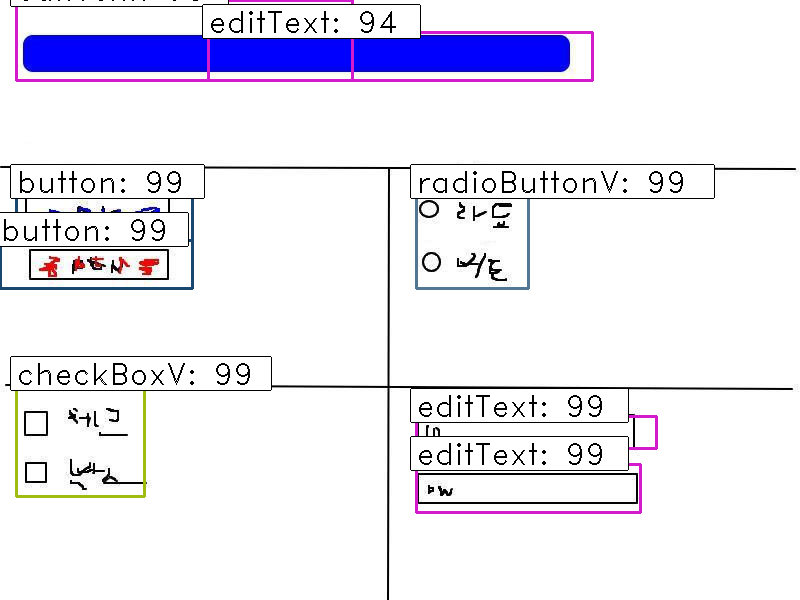
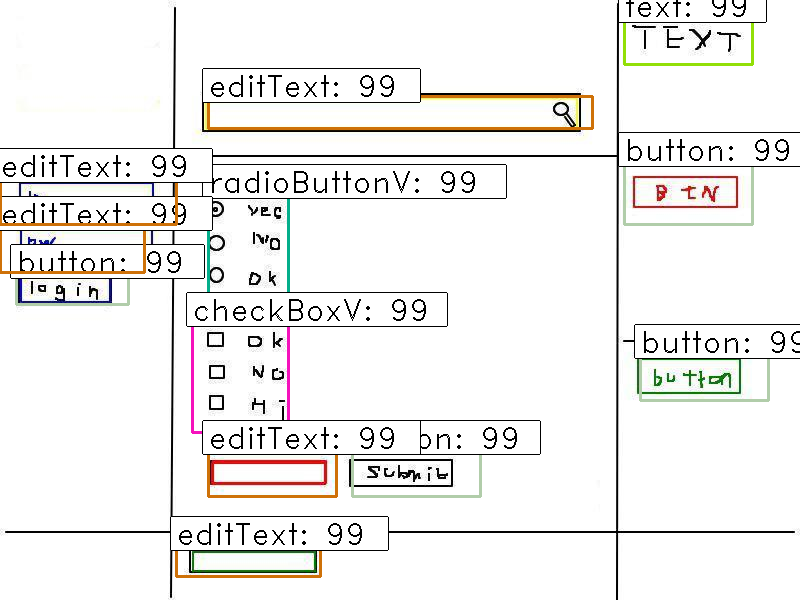
modify bug

Changed region(s): [[0.0, 0.0, 1.0, 0.99], [0.9688, 0.54, 1.0, 0.6], [0.0938, 0.69, 0.125, 0.72]]

diff --git a/html/sketch2html_result_1538046947143.css b/html/sketch2html_result_1538046947143.css
@@ -1,0 +1,203 @@
+#div0{
+	width : 100.0%;
+	height : 25.916666666666664%;
+	margin : -1px;
+	border : 1px solid black;
+}
+#div1{
+	width : 21.5625%;
+	height : 100.0%;
+	margin : -1px;
+	border : 1px solid black;
+	float : left;
+}
+#div2{
+	width : 55.5625%;
+	height : 100.0%;
+	margin : -1px;
+	border : 1px solid black;
+	float : left;
+}
+#div3{
+	width : 22.875%;
+	height : 100.0%;
+	margin : -1px;
+	border : 1px solid black;
+	float : left;
+}
+#div4{
+	width : 100.0%;
+	height : 62.66666666666667%;
+	margin : -1px;
+	border : 1px solid black;
+}
+#div5{
+	width : 21.5625%;
+	height : 100.0%;
+	margin : -1px;
+	border : 1px solid black;
+	float : left;
+}
+#div6{
+	width : 55.5625%;
+	height : 100.0%;
+	margin : -1px;
+	border : 1px solid black;
+	float : left;
+}
+#div8{
+	width : 100.0%;
+	height : 49.33510638297872%;
+	margin : -1px;
+	border : 1px solid black;
+}
+#div9{
+	width : 100.0%;
+	height : 50.66489361702128%;
+	margin : -1px;
+	border : 1px solid black;
+}
+#div7{
+	width : 22.875%;
+	height : 100.0%;
+	margin : -1px;
+	border : 1px solid black;
+	float : left;
+}
+#div10{
+	width : 100.0%;
+	height : 11.416666666666666%;
+	margin : -1px;
+	border : 1px solid black;
+}
+#div11{
+	width : 21.5625%;
+	height : 100.0%;
+	margin : -1px;
+	border : 1px solid black;
+	float : left;
+}
+#div12{
+	width : 55.5625%;
+	height : 100.0%;
+	margin : -1px;
+	border : 1px solid black;
+	float : left;
+}
+#div13{
+	width : 22.875%;
+	height : 100.0%;
+	margin : -1px;
+	border : 1px solid black;
+	float : left;
+}
+#button0{
+	margin : 10px;
+	width : 100px;
+	height : 25px;
+	background-color : btn btn-success;
+}
+#button1{
+	margin : 10px;
+	width : 100px;
+	height : 25px;
+	background-color : btn btn-danger;
+}
+#button2{
+	margin : 10px;
+	width : 100px;
+	height : 25px;
+	background-color : none;
+}
+#editText0{
+	margin : 10px;
+	width : 100px;
+	height : 25px;
+	border : 3px solid #ff6666;
+	border-radius : 5px;
+}
+#editText0:focus{
+	border : 3px solid red;
+}
+#editText0:hover{
+	border : 3px solid red;
+}
+#checkBox0{
+	margin : 10px;
+}
+#checkBox1{
+	margin : 10px;
+}
+#checkBox2{
+	margin : 10px;
+}
+#radioButton0{
+	margin : 10px;
+}
+#radioButton1{
+	margin : 10px;
+}
+#radioButton2{
+	margin : 10px;
+}
+#button3{
+	margin : 10px;
+	width : 100px;
+	height : 25px;
+	background-color : btn btn-primary;
+}
+#editText1{
+	margin : 10px;
+	width : 100px;
+	height : 25px;
+	border : 3px solid #0099ff;
+	border-radius : 5px;
+}
+#editText1:focus{
+	border : 3px solid blue;
+}
+#editText1:hover{
+	border : 3px solid blue;
+}
+#editText2{
+	margin : 10px;
+	width : 100px;
+	height : 25px;
+	border : 3px solid #0099ff;
+	border-radius : 5px;
+}
+#editText2:focus{
+	border : 3px solid blue;
+}
+#editText2:hover{
+	border : 3px solid blue;
+}
+#text0{
+	margin : 10px;
+}
+#editText3{
+	margin : 10px;
+	width : 400px;
+	height : 25px;
+	border : 3px solid #ffeb99;
+	border-radius : 5px;
+}
+#editText3:focus{
+	border : 3px solid orange;
+}
+#editText3:hover{
+	border : 3px solid orange;
+}
+#editText4{
+	margin : 10px;
+	width : 100px;
+	height : 25px;
+	border : 3px solid #33cc33;
+	border-radius : 5px;
+}
+#editText4:focus{
+	border : 3px solid #009933;
+}
+#editText4:hover{
+	border : 3px solid #009933;
+}

diff --git a/html/sketch2html_result_1538046947143.html b/html/sketch2html_result_1538046947143.html
@@ -1,0 +1,63 @@
+<html>
+<head><META HTTP-EQUIV=Expires CONTENT=Mon, 06 Jan 1990 00:00:01 GMT><META HTTP-EQUIV=Expires CONTENT=-1><META HTTP-EQUIV=Pragma CONTENT=no-cache><META HTTP-EQUIV=Cache-Control CONTENT=no-cache>
+<link rel=stylesheet type=text/css href="sketch2html_result_1538046947143.css" />
+<link rel="stylesheet" href="https://maxcdn.bootstrapcdn.com/bootstrap/3.3.7/css/bootstrap.min.css">
+<script src="https://ajax.googleapis.com/ajax/libs/jquery/3.3.1/jquery.min.js"></script>
+<script src="https://maxcdn.bootstrapcdn.com/bootstrap/3.3.7/js/bootstrap.min.js"></script>
+</head>
+<body>
+	<div id="div0">
+		<div id="div1">
+		</div>
+		<div id="div2">
+		<input type="text" id="editText3"/>
+		</div>
+		<div id="div3">
+		text
+		</div>
+	</div>
+	<div id="div4">
+		<div id="div5">
+		<input type="text" id="editText2"/>
+		<br>
+		<input type="text" id="editText1"/>
+		<br>
+		<button type="button" class = "btn btn-primary" id="button3"></button>
+		</div>
+		<div id="div6">
+		<input type="radio" id="radioButton2"/><label>radio</label>
+		<br>
+		<input type="radio" id="radioButton1"/><label>radio</label>
+		<br>
+		<input type="radio" id="radioButton0"/><label>radio</label>
+		<br>
+		<input type="checkbox" id="checkBox2"/><label>check</label>
+		<br>
+		<input type="checkbox" id="checkBox1"/><label>check</label>
+		<br>
+		<input type="checkbox" id="checkBox0"/><label>check</label>
+		<br>
+		<input type="text" id="editText0"/>
+		<button type="button" class = "none" id="button2">Sthpik</button>
+		</div>
+		<div id="div7">
+			<div id="div8">
+			<button type="button" class = "btn btn-danger" id="button1">BIW</button>
+			</div>
+			<div id="div9">
+			<button type="button" class = "btn btn-success" id="button0">bu tien</button>
+			</div>
+		</div>
+	</div>
+	<div id="div10">
+		<div id="div11">
+		</div>
+		<div id="div12">
+		<input type="text" id="editText4"/>
+		</div>
+		<div id="div13">
+		</div>
+	</div>
+
+</body>
+</html>

diff --git a/findColor.py b/findColor.py
@@ -4,17 +4,17 @@ import operator
 
 class FindColor():
     def __init__(self):
-        self.lower_red = np.array([0, 200, 200]) # red
+        self.lower_red = np.array([0, 50, 50]) # red
         self.upper_red = np.array([10, 255, 255])
 
-        self.lower_blue = np.array([115, 200, 200])  # blue
+        self.lower_blue = np.array([115, 50, 50])  # blue
         self.upper_blue = np.array([125, 255, 255])
 
-        self.lower_yellow = np.array([25, 200, 200])  # yellow
+        self.lower_yellow = np.array([25, 50, 50])  # yellow
         self.upper_yellow = np.array([35, 255, 255])
 
-        self.lower_green = np.array([55, 100, 60])  # green
-        self.upper_green = np.array([65, 255, 135])
+        self.lower_green = np.array([55, 50, 50])  # green
+        self.upper_green = np.array([65, 255, 255])
 
         self.lower_black = np.array([0, 0, 0])  # black
         self.upper_black = np.array([5, 5, 5])
@@ -32,7 +32,7 @@ class FindColor():
         if wedget == "button":
             d = {'btn btn-danger':redValue,'btn btn-primary':blueValue,'btn btn-warning':yellowValue,'btn btn-success':greenValue}
             background_color = max(d.keys(), key=lambda x: d[x])
-            if d[background_color]>100:
+            if d[background_color]>10:
                 return background_color
             else:
                 return "none"
@@ -41,7 +41,7 @@ class FindColor():
             d_ = {'red':redValue,'blue':blueValue,'orange':yellowValue,'#009933':greenValue}
             border_color = max(d.keys(), key=lambda x: d[x])
             focus_color = max(d_.keys(), key=lambda x: d_[x])
-            if d[border_color]>100:
+            if d[border_color]>10:
                 return border_color, focus_color
             else:
                 return "none", "none"

diff --git a/layoutDetection.py b/layoutDetection.py
@@ -408,7 +408,7 @@ class Html:
                     findColorFunctoin = findColor.FindColor()
                     if layoutObject[1].lower() == "button":
                         ##find color
-                        width = self.pxMapping(layoutObject[2][2] - layoutObject[2][0] - 10, 100)
+                        width = self.pxMapping(layoutObject[2][2] - layoutObject[2][0] - 30, 100)
                         height = self.pxMapping(layoutObject[2][3] - layoutObject[2][1] - 30, 25)
                         roiImg = self.img[layoutObject[2][1]: layoutObject[2][3],
                                  layoutObject[2][0]: layoutObject[2][2]]
@@ -424,7 +424,7 @@ class Html:
 
                     elif layoutObject[1] == "editText":
                         ##find color
-                        width = self.pxMapping(layoutObject[2][2] - layoutObject[2][0] - 10, 100)
+                        width = self.pxMapping(layoutObject[2][2] - layoutObject[2][0] - 30, 100)
                         height = self.pxMapping(layoutObject[2][3] - layoutObject[2][1] - 30, 25)
                         roiImg = self.img[layoutObject[2][1]: layoutObject[2][3],
                                  layoutObject[2][0]: layoutObject[2][2]]
